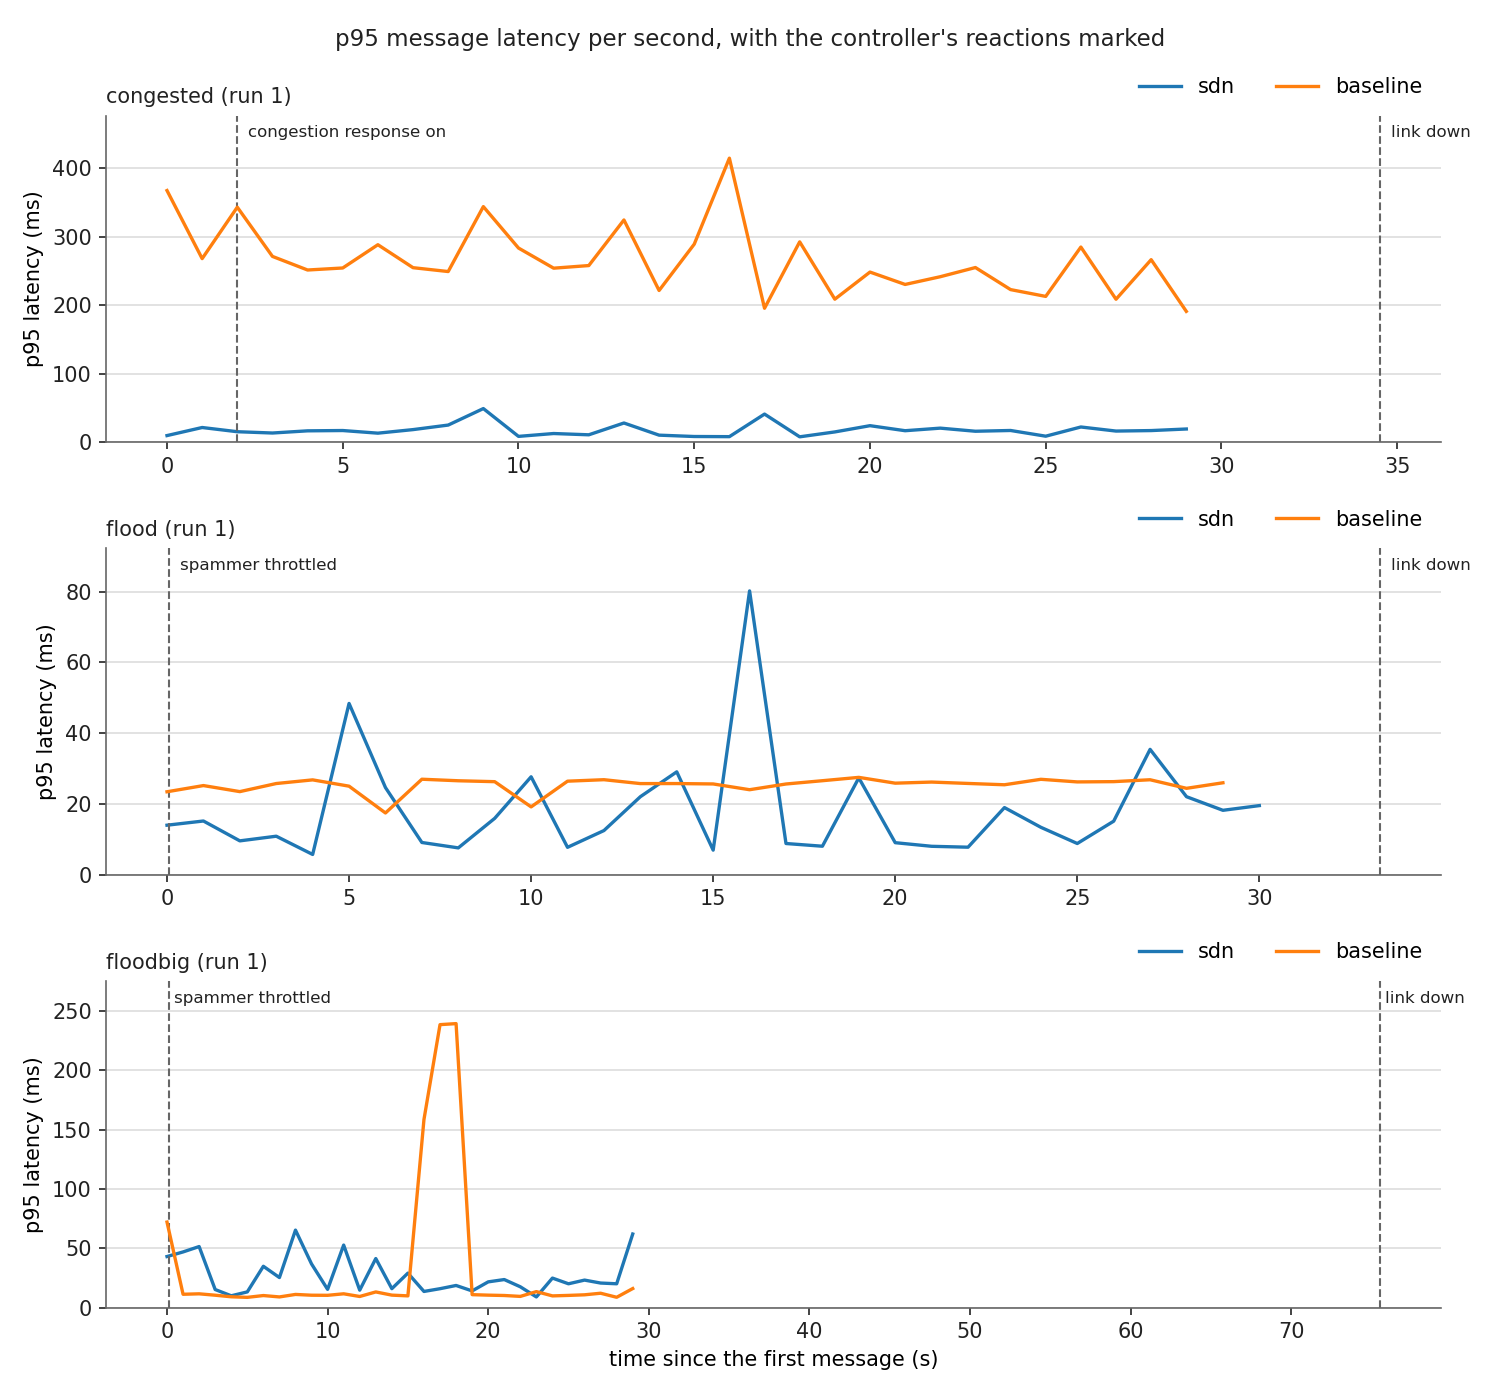
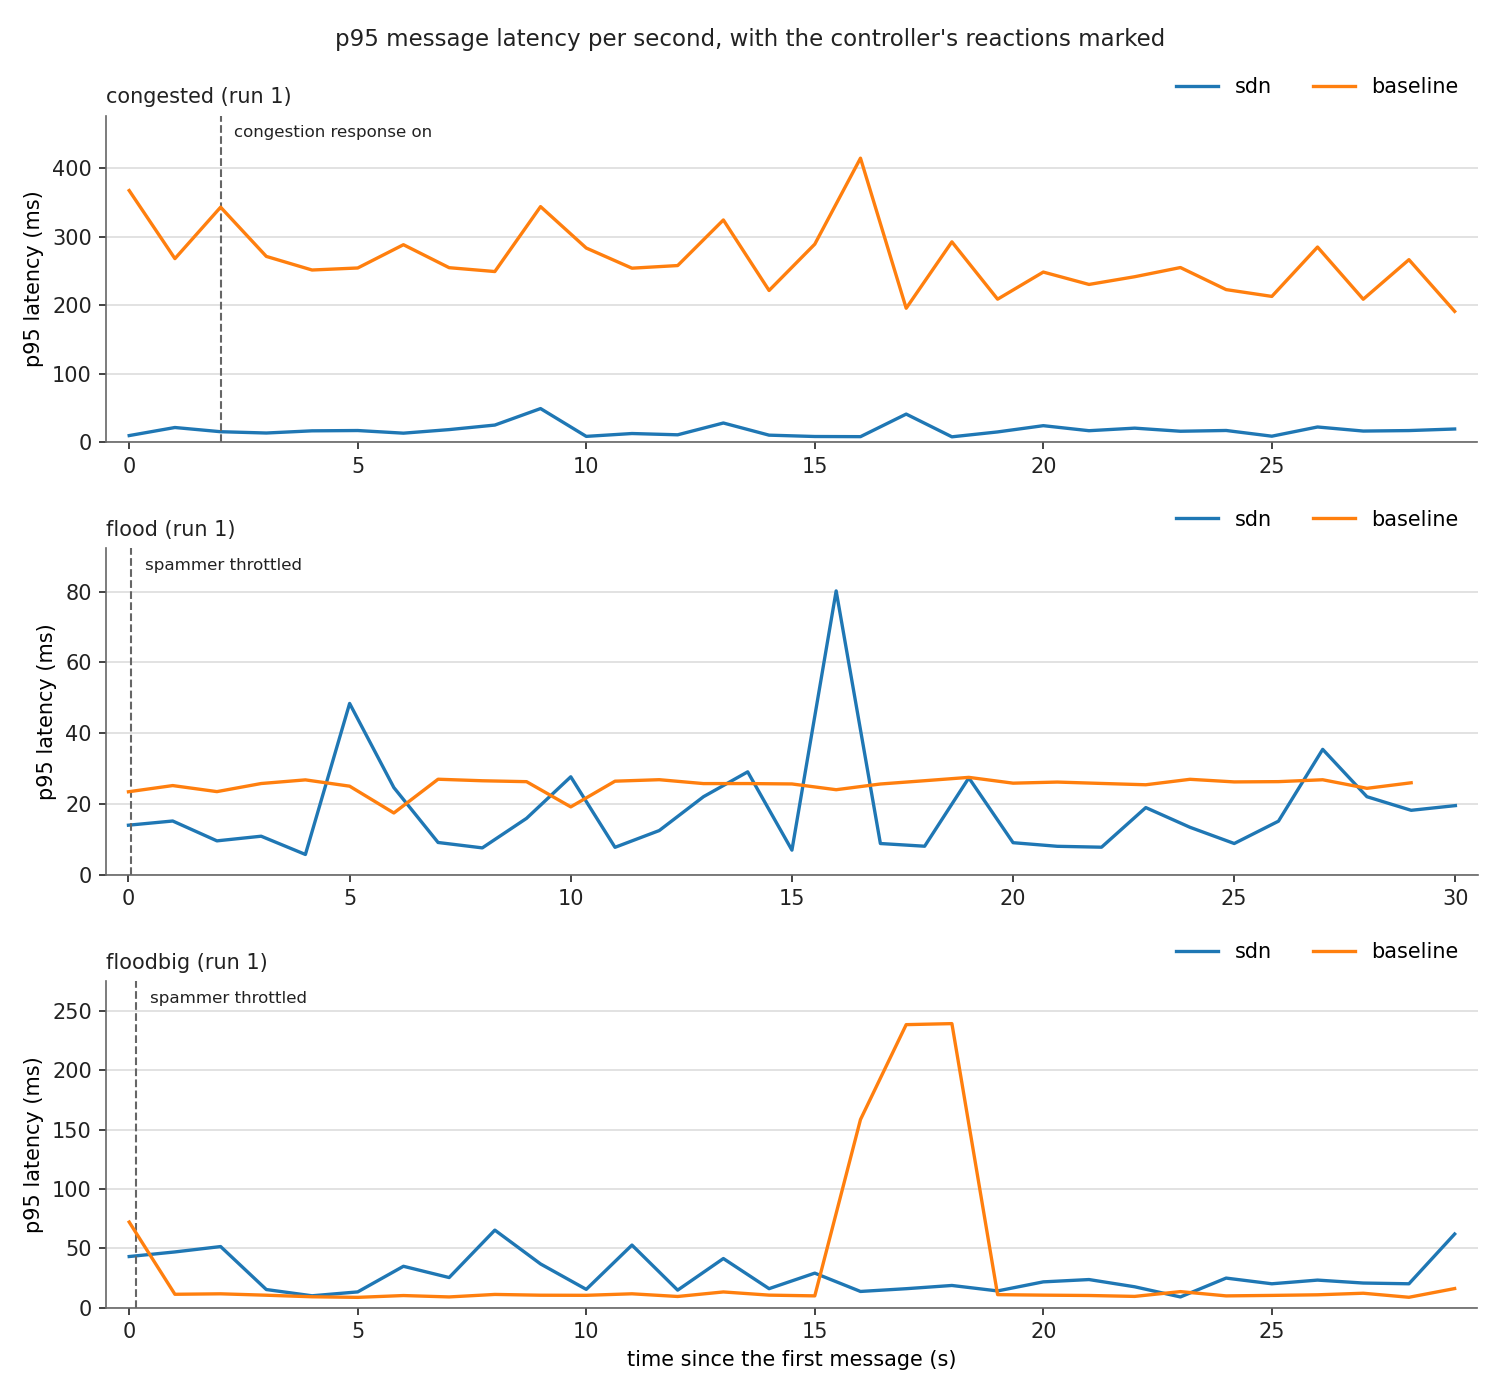
eval: plot_extra ignores run-teardown link_down events and keeps the time axis to the data
Claude-Session: https://claude.ai/code/session_01JB6p75E3ajXK7BRQVNtgXC

diff --git a/eval/plot_extra.py b/eval/plot_extra.py
@@ -29,7 +29,7 @@ from common.constants import MODES, RESULTS_DIR  # noqa: E402
 
 COLORS = {"sdn": "#1f77b4", "baseline": "#ff7f0e"}
 INK, MUTED, GRID = "#222222", "#666666", "#dddddd"
-EVENTS = {"congestion_on": "congestion response on", "throttle_on": "spammer throttled", "link_down": "link down"}
+EVENTS = {"congestion_on": "congestion response on", "throttle_on": "spammer throttled"}
 MIN_SAMPLES = 5          # a second with fewer deliveries than this is not plotted
 
 
@@ -125,7 +125,7 @@ def latency_over_time(results, out):
         return False
     fig, axes = plt.subplots(len(scenarios), 1, figsize=(10, 3.1 * len(scenarios)), squeeze=False)
     for ax, sc in zip(axes[:, 0], scenarios):
-        top = 0.0
+        top, xmax = 0.0, 1
         for mode in MODES:
             files = analyze.run_files(results, mode, sc)
             if not files:
@@ -135,11 +135,12 @@ def latency_over_time(results, out):
                 continue
             ax.plot([p[0] for p in pts], [p[1] for p in pts], color=COLORS[mode], linewidth=1.6, label=mode)
             top = max(top, max(p[1] for p in pts))
+            xmax = max(xmax, pts[-1][0])
             if mode == "sdn":
                 seen = set()
                 for e in analyze.read_controller_log(files[0]):
                     kind, x = e.get("kind"), e.get("t", 0) - t0
-                    if kind in EVENTS and kind not in seen and x >= 0:
+                    if kind in EVENTS and kind not in seen and 0 <= x <= xmax + 1:
                         seen.add(kind)
                         ax.axvline(x, color=MUTED, linestyle="--", linewidth=1)
                         ax.text(x + 0.3, 0.97, EVENTS[kind], transform=ax.get_xaxis_transform(),
@@ -148,6 +149,7 @@ def latency_over_time(results, out):
         ax.set_title("%s (run 1)" % sc, loc="left", color=INK, fontsize=10)
         ax.set_ylabel("p95 latency (ms)")
         ax.set_ylim(0, top * 1.15 if top else 1)
+        ax.set_xlim(-0.5, xmax + 0.5)
         style(ax)
         ax.legend(loc="lower right", bbox_to_anchor=(1.0, 1.0), ncol=2, frameon=False)
     axes[-1, 0].set_xlabel("time since the first message (s)")
